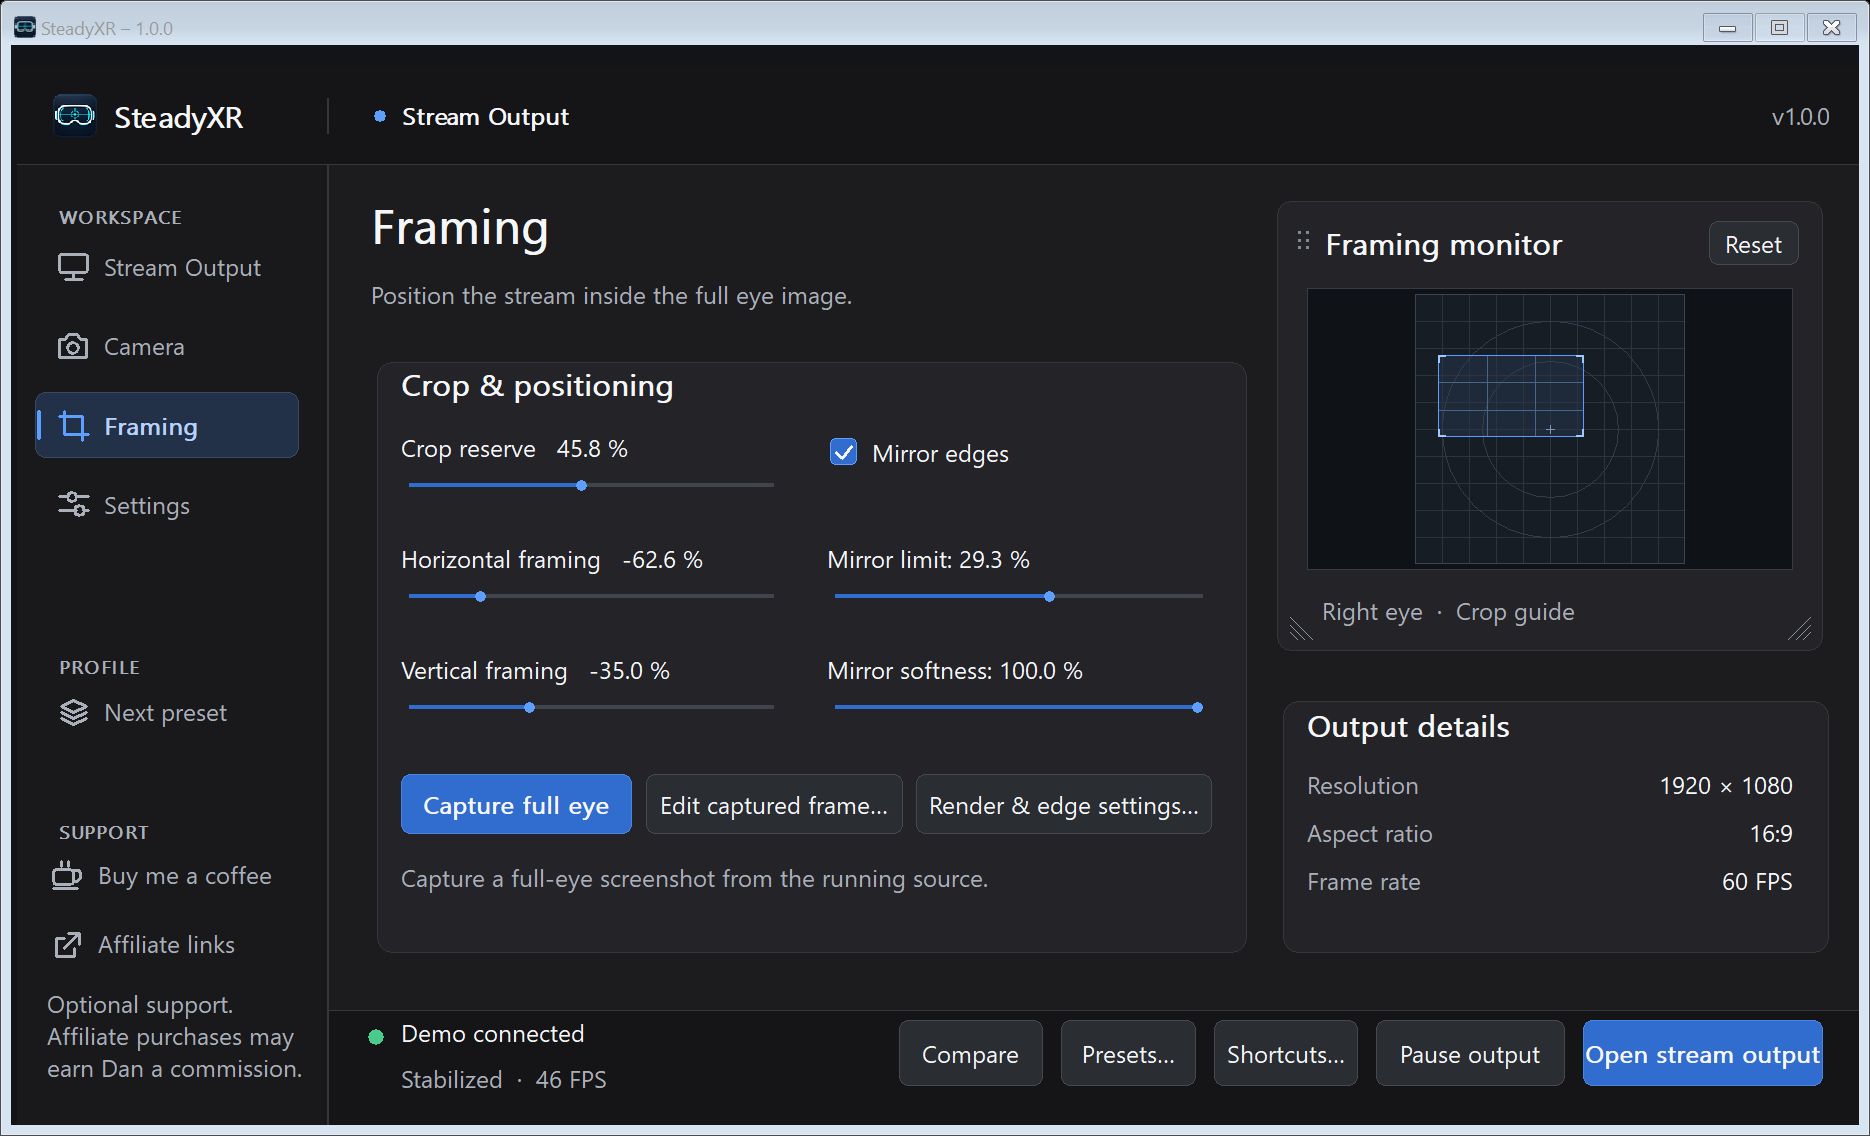
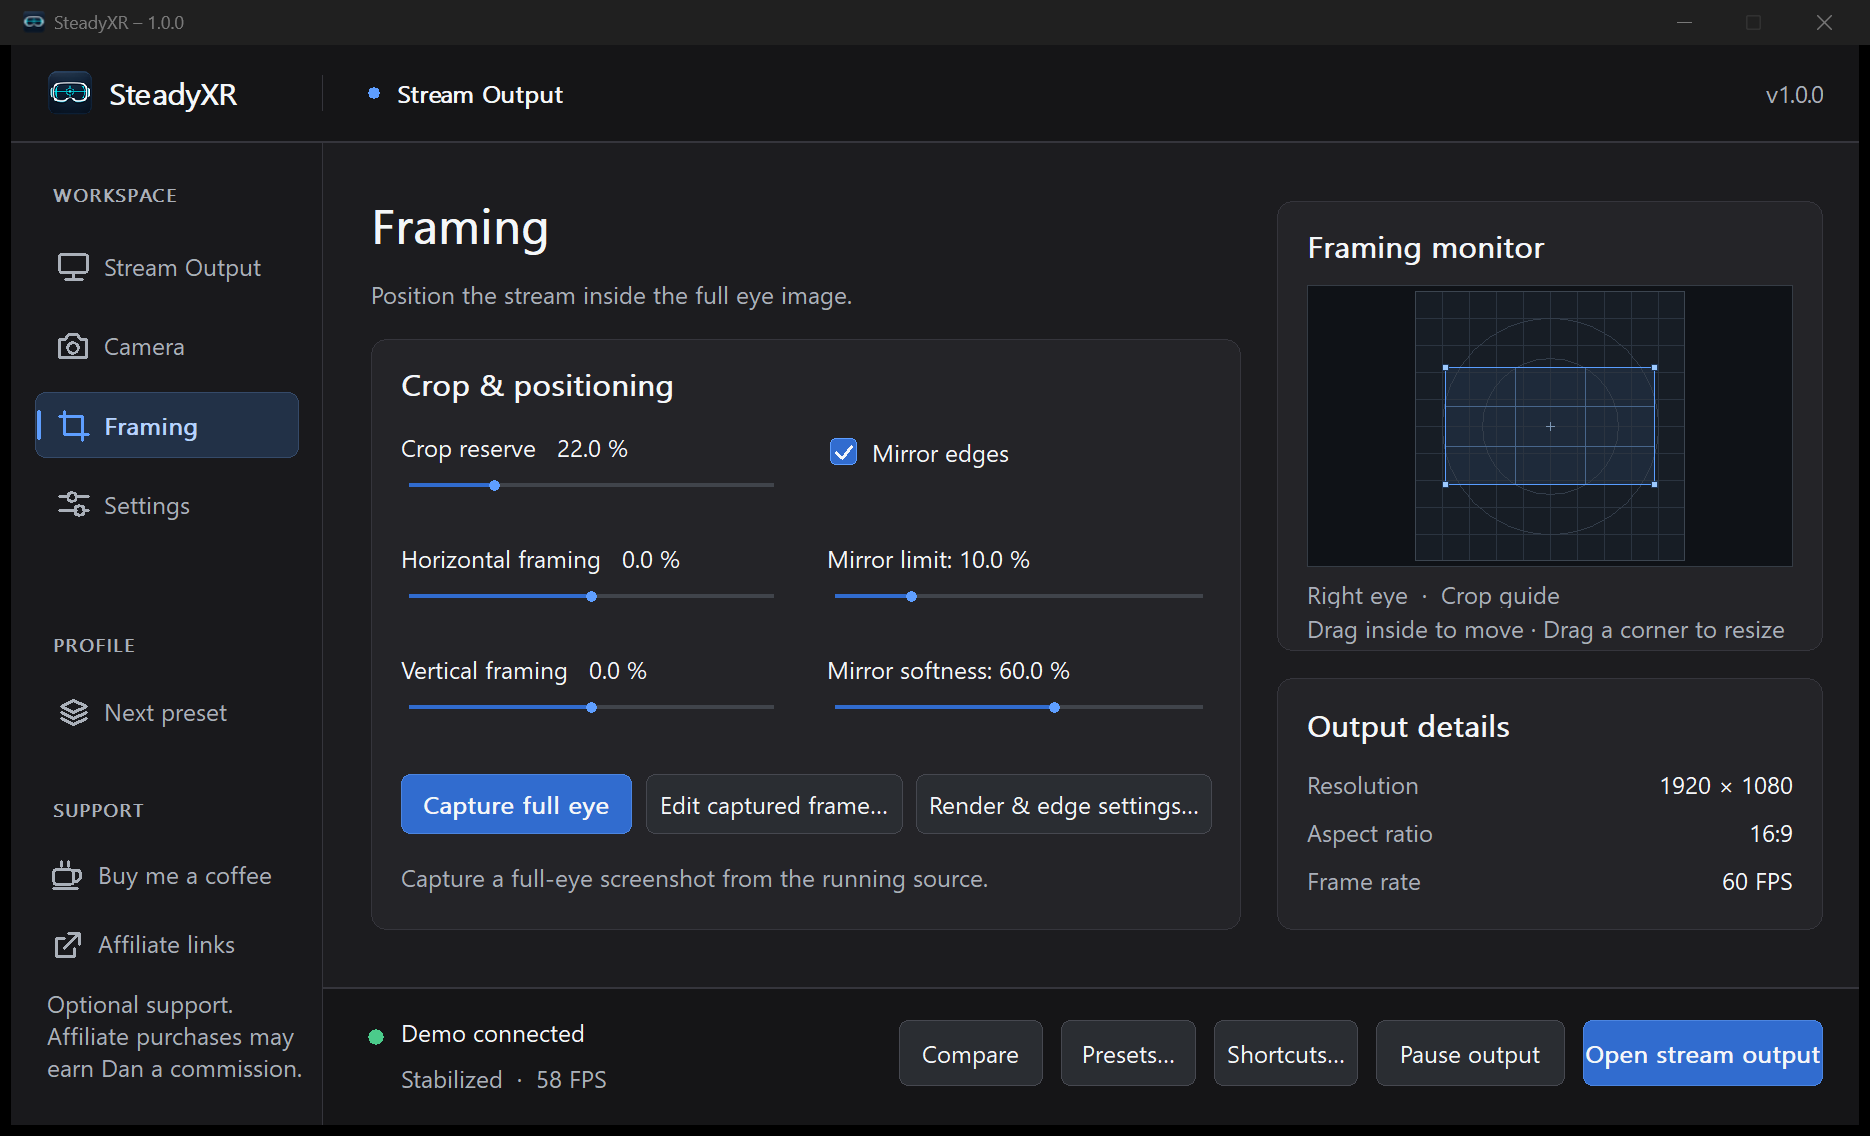
Illustrate dashboard crop gestures and explain Director smoothing

diff --git a/preview/README.md b/preview/README.md
@@ -41,6 +41,8 @@ The status light is green for a live feed, amber while waiting, gray when paused
 
 Horizon lock, adaptive leveling, vertical steadiness and centering use OpenXR pose data. A window source offers image-based smoothing. Stabilizing the stream leaves the headset camera under the game's control.
 
+For a normal stream, Dan recommends starting with **Smoothing** here. The **Director** page described below adds delayed OpenXR lookahead and optional crop controls.
+
 ## Framing
 
 ![Framing page with crop reserve, horizontal and vertical position and mirror controls](../docs/images/steadyxr-framing.png)
@@ -48,7 +50,7 @@ Horizon lock, adaptive leveling, vertical steadiness and centering use OpenXR po
 - **Crop reserve** zooms into the selected source, leaving hidden pixels available to absorb stabilization. The range is 0–97%. A larger reserve helps cover image edges during turns and makes the subject larger.
 - **Horizontal framing** moves the crop left or right. **Vertical framing** moves it up or down. Zero centers each axis. The available movement depends on the source and output aspect ratios and how much you cropped. Moving the rectangle to an extreme leaves less room for stabilization on that side.
 - **Mirror edges** fills exposed borders with reflected pixels. **Mirror limit** caps how far the reflection extends, from 0–50% of the source dimension. Beyond that limit the border is black. **Mirror softness** blends and darkens the reflection progressively. Increase reserve if you would prefer to keep recognizable reflected objects out of the shot.
-- The **Framing monitor** shows the crop guide and, after capture, the still used to position it. Drag its header to move the card within the dashboard. Drag a lower corner to resize it. Use **Reset** or double-click its header to restore the default layout. These changes affect the dashboard only.
+- In the dashboard's **Framing monitor**, drag inside the crop rectangle to reposition your shot. Drag a corner of the rectangle to change crop reserve while keeping the selected output aspect ratio. These edits change Stream Output immediately. Use **Capture full eye** for a fresh reference image. In the separate still editor, your draft takes effect when you click **Apply framing**.
 
 ### Frame a shot with the mouse
 
@@ -91,19 +93,23 @@ Choose an **Aspect ratio** from the list or enter one such as `239:100`. Enter w
 
 ### Gaze and effects
 
-Open **Settings → Gaze & effects…**. Values take effect when you leave a numeric field. **Bypass all spectator camera adjustments** and **Bypass all visual effects** let you audition your saved tuning. The optional features start off.
+Open **Settings → Gaze & effects…**. Values take effect when you leave a numeric field. **Bypass spectator camera** and **Bypass visual effects** let you audition your saved tuning. The optional features start off.
 
 ![Gaze and effects panel showing gaze framing, chat exclusion and calibration](../docs/images/steadyxr-gaze.png)
 
 | Page | What to adjust |
 | --- | --- |
-| **Gaze & chat** | **Enable gaze framing** lets a stable fixation shift the stream within available image margins. Strength sets the amount. Fixation dwell filters quick glances. The neutral zone leaves small departures from center alone. Horizontal and vertical limits bound travel, and gaze response controls how quickly it moves. |
+| **Gaze & chat** | **Enable gaze-driven framing** lets a stable fixation shift the stream within available image margins. Strength sets the amount. Fixation dwell filters quick glances. The neutral zone leaves small departures from center alone. Horizontal and vertical limits bound travel, and gaze response controls how quickly it moves. |
 | **Exposure** | Set a fixed brightness change with **Enable manual exposure** and **Exposure (EV)**. **Enable luminance adaptation** uses target luminance, minimum and maximum gain, and separate brighten and darken rates. The metering bounds choose a normalized region of the picture. Reduce its size to exclude a bright HUD. Transition damping and recovery shape abrupt changes. |
 | **Bloom** | Threshold selects bright highlights, soft knee blends the transition, strength controls intensity and radius spreads the glow. |
 | **Color** | Temperature and tint set the color balance. Contrast and saturation set the overall look. Shadows and highlights adjust the tonal extremes. **Apply filmic visual preset** provides a starting point. **Reset visual effects to off** clears the grade. |
 | **Director** | **Enable lookahead** buffers one to four OpenXR frames and uses later poses to smooth the delayed view. The status reports actual video delay and GPU memory use. **Enable automatic crop** adds reserve when correction would expose an edge. Maximum limits the zoom, and release controls the return to wider framing. **Enable speed framing** adds crop at low speed and returns to normal at **Normal framing speed**. Response controls how quickly it follows telemetry. |
 
-For chat exclusion, enable gaze framing and **Exclude learned chat zone from gaze framing**, then click **Look at chat now / Learn**. Look at your chat panel through the three-second countdown and hold a steady fixation for the next second. Set the chat width and height in degrees. Looking there then suppresses the gaze contribution while normal head following continues. **Cancel learning** stops the acquisition, and **Clear chat zone** clears the learned position. Learn again after changing seats, recentering, moving the panel, changing source or eye, starting a new session or loading a preset. Unavailable or stale gaze falls back to normal stabilization.
+For chat exclusion, enable gaze framing and **Ignore gaze toward learned chat zone**, then click **Look at chat now / Learn**. Look at your chat panel through the three-second countdown and hold a steady fixation for the next second. Set the chat width and height in degrees. Looking there then suppresses the gaze contribution while normal head following continues. **Cancel learning** stops the acquisition, and **Clear chat zone** clears the learned position. Learn again after changing seats, recentering, moving the panel, changing source or eye, starting a new session or loading a preset. Unavailable or stale gaze falls back to normal stabilization.
+
+![Director page showing lookahead, automatic crop and speed framing](../docs/images/steadyxr-director.png)
+
+Dan recommends **Camera → Smoothing** for normal streams. When lookahead is actively providing the OpenXR camera pose, it replaces ordinary smoothing. Automatic crop and speed framing on their own keep ordinary smoothing.
 
 Director lookahead requires stabilized OpenXR capture. Its 256 MiB texture budget can reduce the requested delay or bypass buffering with large eyes or overlays. At 60 captured FPS, three frames are roughly 50 ms. Use the measured delay to align separately recorded audio. Window capture supports automatic crop and speed framing. Speed telemetry supports **Auto**, **iRacing** and **Le Mans Ultimate** on the gaming PC. Without fresh data, framing returns toward its normal setting. Visual effects process the captured SDR image before separately composed overlays. They cannot recover clipped highlights.
 
@@ -149,7 +155,6 @@ Keep the release folder intact with its signed executable, capture DLL and updat
 | --- | --- |
 | `SteadyXR.ini` | App, source, camera, framing, output and effects settings. An older `preview.ini` can be migrated on first launch. |
 | `SteadyXR-shortcuts.ini` | Saved joystick or wheel bindings. |
-| `SteadyXR-ui.ini` | Framing-monitor position and size. |
 
 Named presets live in the shared **Presets** folder one level above the app directory. The layer editor keeps its **Layer-Backups** there too. Keep these folders when moving versions or computers.
 

diff --git a/docs/standalone-updates.md b/docs/standalone-updates.md
@@ -2,7 +2,7 @@
 
 SteadyXR checks the latest stable release on startup. A newer version with a compatible update package opens a confirmation dialog. Choose **Yes** to download it in the background, then close SteadyXR normally when you are ready to switch. The updater starts the new executable from its own version folder next to the old one. Use that new executable for future sessions.
 
-Updates copy your app settings, joystick bindings and window layout after the previous app exits. Named presets in the shared `Presets` folder remain available. An original `Start-Preview.cmd` pointing at the previous folder follows the update. Custom launchers keep their existing target. For rollback, close the new version and open `SteadyXR.exe` in the previous folder. Installing an update leaves OpenXR registrations alone. If you want a different capture DLL active, use the app's connection controls and restart the game.
+Updates copy your app settings and joystick bindings after the previous app exits. Named presets in the shared `Presets` folder remain available. An original `Start-Preview.cmd` pointing at the previous folder follows the update. Custom launchers keep their existing target. For rollback, close the new version and open `SteadyXR.exe` in the previous folder. Installing an update leaves OpenXR registrations alone. If you want a different capture DLL active, use the app's connection controls and restart the game.
 
 SteadyXR checks public releases directly through GitHub. You can use the app without a GitHub account or the GitHub CLI. If you are offline, keep using the current version. You can also download and extract a standalone ZIP manually. [SteadyXR releases](https://github.com/DSuzuki35/steadyXR/releases)
 

diff --git a/README.md b/README.md
@@ -26,7 +26,9 @@ On **Framing**, click **Capture full eye**, then **Edit captured frame…**. Dra
 
 ![Full-eye framing editor showing the crop and the three framing controls on a quad-view test pattern](docs/images/steadyxr-framing-editor.png)
 
-The **Framing monitor** is the card on the dashboard. Drag its header to move the card or either lower corner to resize it. Its **Reset** button restores the dashboard layout. To change what viewers see, use the framing controls or the still editor.
+You can also frame the shot directly in the dashboard's **Framing monitor**. Drag inside the crop rectangle to move the shot, or drag a corner of the rectangle to change how much of the eye reaches the stream. Dashboard edits change Stream Output immediately. The separate still editor lets you adjust a draft before you click **Apply framing**.
+
+For normal streams, I recommend **Camera → Smoothing**. When **Director → Enable lookahead** supplies the OpenXR camera pose, lookahead replaces ordinary smoothing. **Enable automatic crop** and **Enable speed framing** on their own keep your normal smoothing.
 
 ## Controls and setup
 
